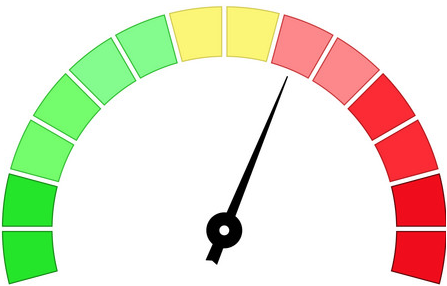
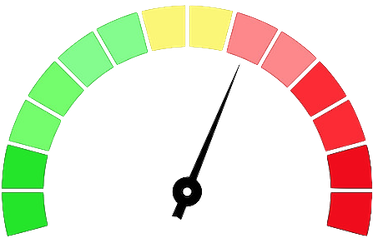
tested conditional rendering with gauge, functional, adding more gauge images

diff --git a/Home.js b/Home.js
@@ -293,16 +293,11 @@ class HomeScreen extends Component {
                                 <Text style={{ fontSize: 30, textAlign: "center", color: "white" }}>{this.state.bac}</Text></View>)}
                         <TouchableOpacity style={styles.button} onPress={() => this.checkBac()}><Text style={styles.buttonText}>Check BAC</Text></TouchableOpacity>
                     </View>
-                    {/* <View style={{ backgroundColor: "#e0f2f1", borderRadius: 15, margin: 10, padding: 10 }}>
-                        <Text style={{ fontSize: 30, textAlign: "center", paddingBottom: 10 }}>Add a Drink</Text>
-                        <TouchableOpacity style={styles.button} onPress={() => this.addDrink("Beer")}><Text style={styles.buttonText}>+1 Beer 🍺</Text></TouchableOpacity>
-                        <TouchableOpacity style={styles.button} onPress={() => this.addDrink("Wine")}><Text style={styles.buttonText}>+1 Wine 🍷</Text></TouchableOpacity>
-                        <TouchableOpacity style={styles.button} onPress={() => this.addDrink("Liquor")}><Text style={styles.buttonText}>+1 Liquor 🥃</Text></TouchableOpacity>
-                    </View> */}
                     <View style={{ backgroundColor: "#e0f2f1", borderRadius: 15, margin: 10, padding: 10 }}>
-                        <Image
-                            style={{ alignSelf: "center" }}
-                            source={require('./img/1bac.png')} />
+                        {(this.state.bac === 0 || this.state.bac === undefined) && (
+                            <Image style={{ alignSelf: "center" }} source={require('./img/1bac.png')} />)}
+                        {this.state.bac > 0.00 && this.state.bac < 0.02 && (
+                            <Image style={{ alignSelf: "center" }} source={require('./img/2bac.png')} />)}
                     </View>
                     <View style={{ backgroundColor: "#e0f2f1", borderRadius: 15, margin: 10, padding: 55 }}>
                         <Text style={{ fontSize: 30, textAlign: "center", paddingBottom: 10 }}>Add a Drink</Text>
